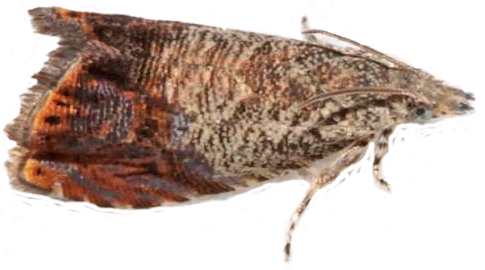
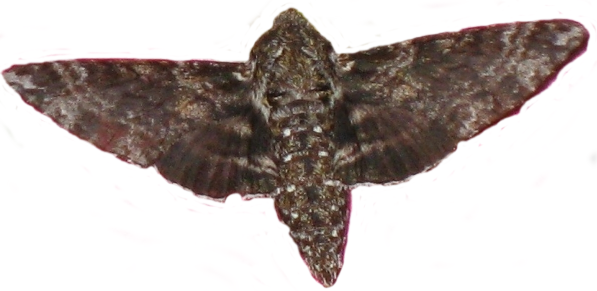
updated images and image and text sizing, did away with pixels and replaced with em

diff --git a/style.css b/style.css
@@ -110,7 +110,6 @@ input[type="text"], input[type="date"] {
     min-width: 250px;
     border: 2px solid transparent; /* slightly glowy border */    
     box-shadow: 0 0 5px #ffccff; /* slightly glowy border*/ 
-    transform: translate(-50%, -50%);
 }
 
 /* triangle that makes the container look like a message bubble */
@@ -144,6 +143,7 @@ input[type="text"], input[type="date"] {
 .display-container p {
     margin: 0;
     padding: 0;
+    font-size: 1em;
 }
 
 .name-container p {
@@ -154,8 +154,9 @@ input[type="text"], input[type="date"] {
     text-overflow: ellipsis;
 }
 
+
 img {
-    height: 30px;
+    height: 2em;
     margin-left: .25em;
     width: auto;
     max-width: 100%;
@@ -185,4 +186,17 @@ h1 {
     .display-container {
     width: 15%;
 }
+
+    .name-container p, 
+.display-container p {
+    margin: 0;
+    padding: 0;
+    font-size: 1.5em;
 }
+
+    img {
+    height: 2.5em;
+}
+    
+}
+
